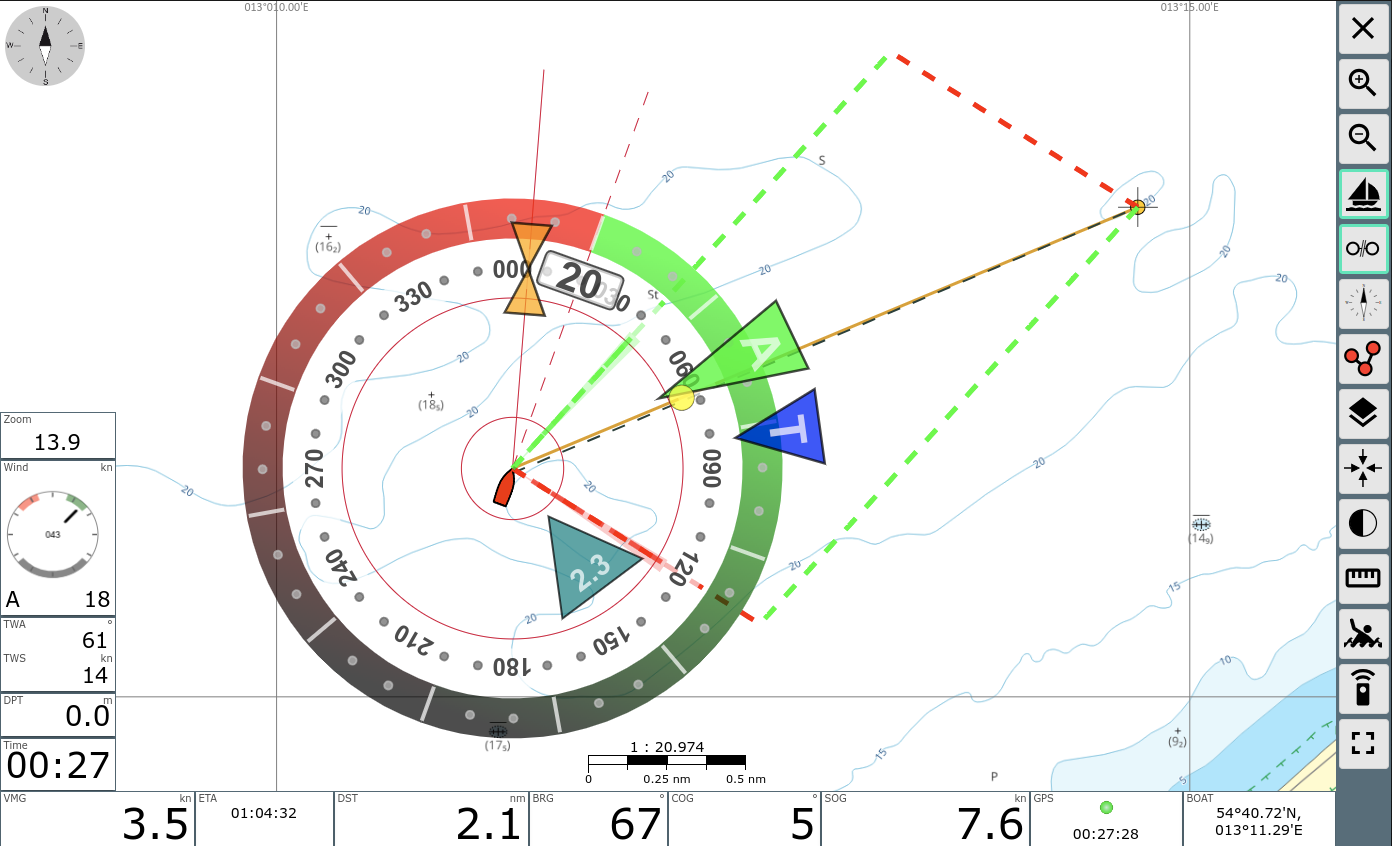
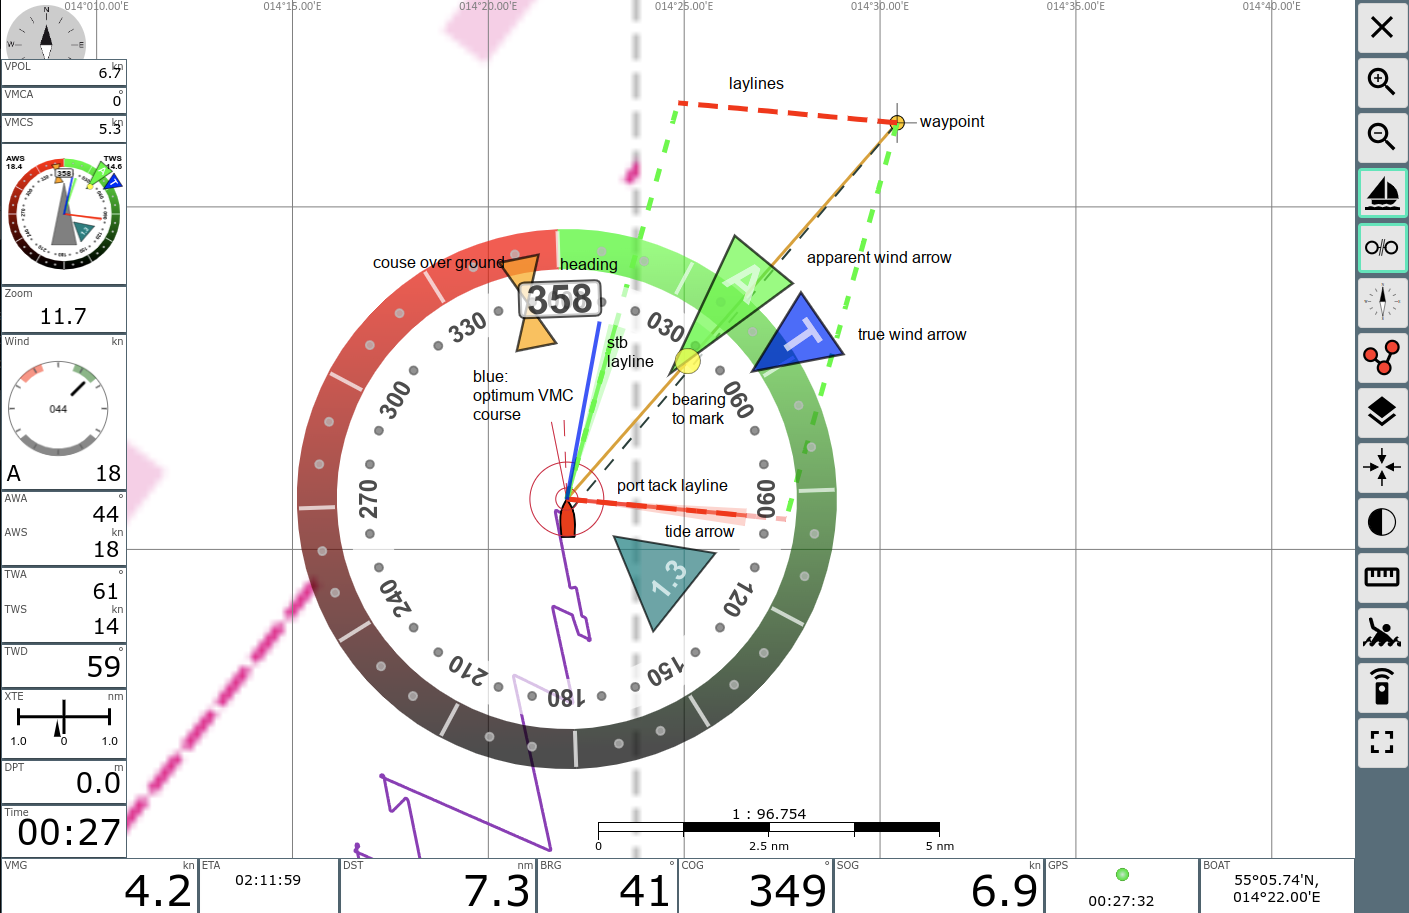
adjuseted readme

diff --git a/Sail_Instrument/plugin.js b/Sail_Instrument/plugin.js
@@ -147,7 +147,7 @@ var Sail_InstrumentWidget = {
         DFTF: 'nav.gps.sailinstrument.DFTF',
         minTWD: 'nav.gps.sailinstrument.TWDMIN',
         maxTWD: 'nav.gps.sailinstrument.TWDMAX',
-        VMCA: 'nav.gps.sailinstrument.VMCA',
+        VMCD: 'nav.gps.sailinstrument.VMCD',
     },
     initFunction: function() {},
     finalizeFunction: function() {},
@@ -259,7 +259,7 @@ let Sail_Instrument_Overlay = {
         DFTF: 'nav.gps.sailinstrument.DFTF',
         minTWD: 'nav.gps.sailinstrument.TWDMIN',
         maxTWD: 'nav.gps.sailinstrument.TWDMAX',
-        VMCA: 'nav.gps.sailinstrument.VMCA',
+        VMCD: 'nav.gps.sailinstrument.VMCD',
     },
     initFunction: function() {},
     finalizeFunction: function() {},
@@ -303,8 +303,8 @@ function drawWindWidget(ctx,size, maprotation, data){
           DrawLaylineArea(ctx, size, maprotation + data.LLSB, mm, green);
           DrawLaylineArea(ctx, size, maprotation + data.LLBB, mm, red);
         }
-        if (data.VMCA) {
-          DrawLaylineArea(ctx, size, maprotation + data.VMCA, [0,0], blue);
+        if (data.VMCD) {
+          DrawLaylineArea(ctx, size, maprotation + data.VMCD, [0,0], blue);
         }
         if (knots(data.AWSF)>=1) {
             DrawWindpfeilIcon(ctx, size, maprotation + data.AWDF, green, 'A');

diff --git a/Sail_Instrument/plugin.py b/Sail_Instrument/plugin.py
@@ -294,31 +294,38 @@ class Plugin(object):
             self.api.error(f"polar_speed {x}")
 
     def laylines(self, data):
-        twd, tws = data.TWDF, data.TWSF
-        if any(v is None for v in (twd, tws)):
-            return
-        twa = to180(twd - data.HDT)  # filtered TWA
-        upwind = abs(twa) < 90
-
-        tack_angle = float(self.getConfigValue(TACK_ANGLE))
-        gybe_angle = float(self.getConfigValue(GYBE_ANGLE))
-
-        if upwind and tack_angle or not upwind and gybe_angle:
-            angle = (tack_angle / 2) if upwind else (180 - gybe_angle / 2)
-            data.LLSB, data.LLBB = to360(twd - angle), to360(twd + angle)
-            return
-
-        if not self.polare:
-            return
         try:
+            twd, tws = data.TWDF, data.TWSF
+            if any(v is None for v in (twd, tws)):
+                return
+            twa = to180(twd - data.HDT)  # filtered TWA
+
+            brg = bearing_to_waypoint()
+            if brg:
+                upwind = abs(to180(brg - twd)) < 90
+            else:
+                upwind = abs(twa) < 90
+
+            tack_angle = float(self.getConfigValue(TACK_ANGLE))
+            gybe_angle = float(self.getConfigValue(GYBE_ANGLE))
+
+            if upwind and tack_angle or not upwind and gybe_angle:
+                angle = (tack_angle / 2) if upwind else (180 - gybe_angle / 2)
+                data.LLSB, data.LLBB = to360(twd - angle), to360(twd + angle)
+                return
+
+            if not self.polare:
+                return
+
             angle = self.polar_angle(tws, upwind)
             data.LLSB, data.LLBB = to360(twd - angle), to360(twd + angle)
             data.VPOL = self.polar_speed(twa, tws)
 
-            brg = bearing_to_waypoint()
-            if brg:
-                # BRG to WP relative to TWD
-                brgw = to180(brg - twd)
+            if not brg:
+                return
+
+            def optimum_vmc(twd, tws, brg):
+                brgw = to180(brg - twd)  # BRG from wind
 
                 def vmc(twa):
                     # unit vector to WP
@@ -326,7 +333,7 @@ class Plugin(object):
                     # boat speed vector from polar
                     b = toCart((twa, self.polar_speed(twa, tws)))
                     # project boat speed vector onto bearing to get VMC
-                    # negative sign, optimizer find minimum
+                    # negative sign, optimizer finds minimum
                     return -(e[0] * b[0] + e[1] * b[1])
 
                 # for a in range(0, 181, 10): self.api.log(f"{a} {vmc(a)*KNOTS}")
@@ -334,10 +341,12 @@ class Plugin(object):
                 res = scipy.optimize.minimize_scalar(vmc, bounds=(0, 180))
                 # self.api.log(f"{res}")
                 if res.success:
-                    data.VMCA = to360(copysign(res.x, brgw) + twd)
-                    data.VMCS = -res.fun
+                    return to360(twd + copysign(res.x, brgw)), -res.fun
+
+            data.VMCD, data.VMCS = optimum_vmc(twd, tws, brg)
+
         except Exception as x:
-            self.api.error(f"polar calculations {x}")
+            self.api.error(f"laylines {x}")
 
     def strictly_increasing(self, L):
         return all(x < y for x, y in zip(L, L[1:]))

diff --git a/Readme.md b/Readme.md
@@ -1,219 +1,73 @@
-# Sail_Instrument Plugin
+# SailInstrument AvNav-Plugin
 
 ![widget overlay](Images/avn1.png)
-![standalone widget](Images/widget.png)
 
-![attention](Images/Achtung.png)
-
-
-**This Plugin only works with an AVNAV-Versions including User-Overlays and new geodesy-library. (Release >20220819).** 
-Idea of this plugin is to show an Instrument, that contains all basic informations needed for sailing.
-With the possibility to show this Display directly on the map at the boatposition the sailor has all informations in view. The Laylines will inform you about the fastest bearing to a waypoint upwind and if displayed on the map you can follow these lines. (The advantage you can get using laylines is shown at the [end of this Readme](#usecase)).  
-The Instrument is inspired by B&Gs sailsteer.  
+The idea of this plugin is to display an instrument, that contains all basic information needed for sailing.
+The Instrument is inspired by B&G's sailsteer.  
+With the possibility to show the instrument directly on the map at the boat position the sailor has all information in view. The laylines will inform you about the course for optimal VMG upwind and if displayed on the map you can follow these lines. 
 
 Basically this plugin uses the [AvNav Plugin Interface](https://www.wellenvogel.net/software/avnav/docs/hints/plugins.html?lang=en).
 
-There is a good description of the basic functionality available at [blauwasser.de](https://www.blauwasser.de/navigation/app-sailsteer-bandg) und [mark-chisnell](https://www.bandg.com/de-de/blog/sailsteer-with-mark-chisnell/)
- 
- 
-**Remarks**:
-*  You have to provide polar data (see [Example](https://github.com/kdschmidt1/Sail_Instrument/blob/65a357926932284c8cf6eddd00fa86e13bc51392/polardaten/polare.xml)) of yor boat in the /home/pi/avnav/user/viewer folder for calculating the laylines. If there is no polar.xml file in the user folder, the plugin will copy its own file to this location and you can use it as a template for your own polar data and edit for example directly on the [Files/Download](https://www.wellenvogel.net/software/avnav/docs/userdoc/downloadpage.html) page in the section [DownloadPageUser](https://www.wellenvogel.net/software/avnav/docs/userdoc/downloadpage.html#userfiles).  
+There is a good description of what you can do with it at [blauwasser.de](https://www.blauwasser.de/navigation/app-sailsteer-bandg) and [mark-chisnell](https://www.bandg.com/de-de/blog/sailsteer-with-mark-chisnell/).
+
+
+
+
+The plugin calculates true wind, ground wind and set and drift. It needs COG/SOG, HDT/STW and AWA/AWS and input data. If HDT/STW is missing it uses COG/SOG as fallback (you get ground wind instead of true wind, and the direction is wrong if HDT!=COG). If you do not have a wind sensor, you can enter ground wind in the settings for testing purposes.
+
+The values calculated by the plugin are published in AvNav under `gps.sailinstrument.*`. The following values are computed
+
+| quantity | meaning                                      | 
+|----------|----------------------------------------------|
+| AWA      | apparent wind angle                          |
+| AWD      | apparent wind direction                      |
+| AWDF     | apparent wind direction, filtered (smoothed) |
+| AWS      | apparent wind speed                          |
+| AWSF     | apparent wind speed filtered                 |
+| COG      | course over ground                           |
+| DFT      | tide drift rate                              |
+| DFTF     | tide drift rate filtered                     |
+| GWA      | ground wind angle                            |
+| GWD      | ground wind direction                        |
+| GWS      | ground wind speed                            |
+| HDT      | true heading                                 |
+| LEE      | leeway angle (currently 0)                   |
+| LLBB     | port layline direction                       |
+| LLSB     | starboard layline direction                  |
+| SET      | tide set direction                           |
+| SETF     | tide set direction filtered                  |
+| SOG      | speed over ground                            |
+| STW      | speed through water                          |
+| TWA      | true wind angle                              |
+| TWD      | true wind direction                          |
+| TWDF     | true wind direction filtered                 |
+| TWDMAX   | max true wind direction relative to TWDF     |
+| TWDMIN   | min true wind direction relative to TWDF     |
+| TWS      | true wind speed                              |
+| TWSF     | true wind speed filtered                     |
+| VMCD     | optimum VMC direction (course)               |
+| VMCS     | optimum VMC speed                            |
+| VPOL     | speed from polar                             |
+
+Optionally you can enable that i.e. `gps.trueWindAngle` is written ot the AvNav data (requires `allowKeyOverwrite=true`). 
+
+## Installation
+
+Place the `Sail_Instrument` folder inside `avnav/data/plugins` or install the provided deb package from the releases.
+
+You have to provide polar data for your boat in `avnav/user/viewer` for calculating the laylines. If there is no `polar.xml` file in the user folder, the plugin will copy its own file to this location and you can use it as a template for your own polar data.
+If you do not have polar data, you can enter tack and gybe angle in the plugin configuration and use these fixed values instead.
   
-  
-A description how to prepare the polar.xml based on other formats will follow soon.  
+A source for polar data can be [Zeilersforum.nl](http://jieter.github.io/orc-data/site/index.html?#ITAEVERG)(thanks to [Segeln-Forum](https://www.segeln-forum.de/thread/61813-messbriefe-und-polardaten-online-nachschauen/)) or [Seapilot.com](https://www.seapilot.com/wp-content/uploads/2018/05/All_polar_files.zip)(thanks to [free-x](https://github.com/free-x)).
 
-A source for polar data can be [Zeilersforum.nl](http://jieter.github.io/orc-data/site/index.html?#ITAEVERG)(thanks to [Segeln-Forum](https://www.segeln-forum.de/thread/61813-messbriefe-und-polardaten-online-nachschauen/)) or
-[Seapilot.com](https://www.seapilot.com/wp-content/uploads/2018/05/All_polar_files.zip)(thanks to [free-x](https://github.com/free-x)).
-in this data you can find  
-beat angle => upwind,  
-run angle => downwind  
+In the polar data you find beat angle and run angle. These two vectors are needed for the calculation of the laylines.  
+The boat speed matrix is only used for calculation of VPOL and optimal VMC course.
 
-These two vectors are mandatory for calculation of the laylines.  
-The boatspeed Matrix is only used for calculation of VPOL (interpolated speed for actual condition based on polar-data)
+## Laylines
 
+To understand the technical background of the laylines one has first to have an understanding of the terms VMG & VMC.
+VMG (Velocity made good against wind) is defined as VMG = boatspeed * cos(TWA), so meaning the fastest course upwind.
+VMC (Velocity made good on course) is defined as VMC = boatspeed * cos(BRG-HDG), meaning the fastest course towards the waypoint.
+Unfortunately there is a lot of confusion on these two terms and also most of the commercial products are mixing the two items and indicate VMG but actually showing VMC (and so does AvNav). The calculation of laylines is based on the upwind and downwind vectors in your polar file, which contain the TWA for maximum VMG for a given TWS. As a result laylines show the optimum VMG angle, but not optimum VMC angle from TWD.  
 
-| Value | Format     | Storename | Description                        |
-|-------|------------|-----------|------------------------------------|
-| LLSB  | 0…360 [°]  | gps.LLSB  | layline angle Starboard            |
-| LLBB  | 0…360 [°]  | gps.LLBB  | layline angle Portside             |
-| VPOL  | 0..∞ [m/s] | gps.VPOL  | calculated polar speed             |
-| AWDF  | 0…360 [°]  | gps.AWDF  | PT1 filtered ApparentWindDirection |
-| TWDF  | 0…360 [°]  | gps.AWDF  | PT1 filtered TrueWindDirection     |
-
-
-**NEW:**  
-
-For the Instrument-Overlay you can configure
-
-[](Images/InstrumentOverlayconf.png "Beispielbild")
-
-| Name           | Default Value  | Description                               |
-|----------------|----------------|-------------------------------------------|
-| Widgetposition | Boatposition   | Position of the Instrument on the map     |
-| Displaysize    | 100            | Size of the Sail-Instrument (%)           |
-| Opacity        | 1.0            | Opacity of the Sail-Instrument on the map |
-
-If there is no boatposition available the Instrument will always be shown at the center position!
-
-                          
-                        
-For the Laylines-Overlay you can configure  
-[](LaylinesOverlay_conf.png "Beispielbild")  
-
-
-
-| Name           | Default Value | Description                                |
-|----------------|---------------|--------------------------------------------|
-| Opacity        | 1.0           | Opacity of the Laylines-Overlay on the map |
-| Laylinelength  | 100           | Length of Laylines (nm)                    |
-| Laylineoverlap | False         | Extent Laylines over Intersection          |
-| LaylineBoat    | True          | Draw Ahead-Laylines from Boatposition      |
-| LaylineWP      | True          | Draw Waypoint-Laylines                     |  
-
-
-
-The server-plugin itself has two parameter  
-[](Images/plugin_conf.png "Beispielbild")  
-
-
-| Name         | Default Value | Description                                                                |
-|--------------|---------------|----------------------------------------------------------------------------|
-| TWD_FiltFreq | 0.2           | Limit Frequency of the PT1 Lowpass-Filter                                  |  
-| Area-Minutes | 2             | Minutes considered for Layline-Areas [0..60] where 0 means no Laylineareas |  
-
-
-Please report any Errors to [Issues](https://github.com/kdschmidt1/Sail_Instrument/issues)
-
-License: [MIT](LICENSE.md)
-
-
-
-
-
-**Installation**
-
-------------
-
-You can use the plugin in 2 different ways.
-
-1. Download the Sail_Instrument code as a zip and unpack the Sail_Instrument-Folder into a directory /home/pi/avnav/data/plugins/Sail_Instrument.
-
- If the directory does not exist just create it. On an normal linux system (not raspberry pi) the directory will be /home/(user)/avnav/plugins/Sail_Instrument.
-
- In this case the internal name of the plugin will be user-Sail_Instrument. 
-
-
-2. Download the package provided in the releases section [Sail_Instrument](https://github.com/kdschmidt1/Sail_Instrument/releases) or build your own package using buildPackage.sh (requires a linux machine with docker installed). Install the package using the command
-
- ```
- sudo dpkg -i avnav-sailinstrument-plugin_xxxx.deb
-
- ```
-Add the Laylines to your map in the [WidgetDialog](https://www.wellenvogel.net/software/avnav/docs/hints/layouts.html#h2:WidgetDialog)
-
-Add the LayLines_Overlay to your map in the [WidgetDialog](https://www.wellenvogel.net/software/avnav/docs/hints/layouts.html#h2:WidgetDialog)  
-(you have to use the new Button ![Button](https://github.com/wellenvogel/avnav/blob/d5cf9802d507bd5c23e1b999b78dbe0c76252fa9/viewer/images/icons-new/assistant_nav.svg)).
-
-
-
-**User App**
-
---------
-
-The plugin registers no [User App](https://www.wellenvogel.net/software/avnav/docs/userdoc/addonconfigpage.html?lang=en#h1:ConfigurationofUserApps)
-
-
-
-**Configuration (Server)**
-
--------------
-
-No configuration necessary
-
-
-
-**Widgets**
-
-------
-
-The plugin provides the 
-- Sail_Instrument_Overlay,
-- LayLines_Overlay
-- Sail_InstrumentWidget (a widget with the Sail_Instrument)
-- Sail_InstrumentInfo-Widget (A Widget you can configure with Displaytype to show the distance [nm] or the time for each Layline (separate or with cum_.. for both Laylines together))  
-
-
-**Formatter**
-
----------
-
-
-No formatters are included in widget.
-
-
-
-
-**Implementation Details**
-
-----------------------
-
-The Plugin is checking the AvNav version. it will not run with versions older than 20220426. 
-The position of the Laylines in the display depends on the filtered TWD, that one 
-can see by activating the TWDFilt_Indicator.  
-Laylines on the map are only shown, if a waypoint is active and the course to the WP is in between the Laylines!
-
-For best viewing i propose to set the Update Time for the Position to the minimum (500ms) in the [Settings page](https://www.wellenvogel.net/software/avnav/docs/userdoc/settingspage.html) 
-and on the [Nav page](https://www.wellenvogel.net/software/avnav/docs/userdoc/navpage.html) to activate LockPos and CourseUp.
-
-**Package Building**
-
-----------------
-
-For a simple package building [NFPM](https://nfpm.goreleaser.com/) is used and started in a docker container (use [buildPkg.sh](buildPkg.sh)). In the [package.yaml](package.yaml) the properties of the packge can be set.
-
-Additionally a [GitHub workflow](.github/workflows/createPackage.yml) has been set up to create a release and build a package whenever you push to the release branch.
-
-So when you fork this repository you can create a package even without a local environment.
-To trigger a package build at GitHub after forking just create a release branch and push this.
-
-**<a name="usecase"></a>Technical implementation and Use-Case**
-
-----------------
-!! This is not for the old seadogs, this is for technical interested hobby-sailors  !!
-
-To understand the technical background of the Laylines one has first to have a understanding of the terms VMG & VMC.
-VMG (Velocity made good against wind) is defined as VMG = Boatspeed * COS(TWA), so meaning the fastest course to a waypoint directly in wind direction.
-VMC (Velocity made good on course) is defined as VMC = Boatspeed * COS(BRG-HDG), meaning the fastest course to your waypoint.
-Unfortunately there is a lot of confusion on these two terms, and also most of the commercial products are mixing the two items and indicate VMG but showing in reality VMC (and so does also AvNav as one can see in the source code (navcompute.js line 210: let vmgapp = gps.speed * Math.cos(Math.PI / 180 * coursediff), with cousediff= BRG-HDG ).
-So have in mind, that VMG in AvNav means in reality VMC!
-The calculation of Laylines is based on the Upwind and Downwind vectors in your polar file, which are indicating the maximum VMG (and in this case really VMG!) for a given true windspeed.
-As a result Laylines are an optimum VMG angle, NOT VMC ANGLE!(see Best VMC below).  
-Examples for all three strategies in the following:  
-Based on a true wind direction of 0° (directly from North) and a Waypoint in 10 nm distance with a bearing of 32° you will get:
-
-**Following the direct course**  
-
-Your speed (acc. Polar-data) will be 3.8 knots. For the 10 nm to the waypoint you would need 10nm/3.8kts ~ 2.63hrs.
-(The indication of the LaylineInfo Panels is useless in this moment, because they take into account your actual speed, and the distance to the waypoint would be 9.7 + 1.9 nm --> 11.6 nm)
-![direct course](https://github.com/kdschmidt1/Sail_Instrument/blob/9f54c7d21a16f81bd08985cf77718e07762b62a3/Images/directCourse.png)
-
-**Following the Laylines**  
-
-But, if you change course to the Layline your speed (acc. Polar-data) will increase to 4.9 knots. You have to travel 9,7 nm on starboard and 1.9 nm on port (with the same speed), so you would need 11.6nm/4.9kts ~ 2.37 hrs, an advantage of approx. 15 minutes (not taking into account the additional time for the turn maneuver).  
-
-![Follow Laylines](https://github.com/kdschmidt1/Sail_Instrument/blob/9f54c7d21a16f81bd08985cf77718e07762b62a3/Images/followLL.png)
-
-**Best VMC**  
-
-As mentioned before, the layline calculation is based on VMG, not VMC. So best VMC with this strategy is only valid, if your Waypoint is directly against the true wind direction. One can calculate also a best VMC course, which in this case would be 63 degrees as shown in the picture with an actual speed (acc. Polar-data) of 5.9 knots resulting in an VMC (or, as indicated as VMG in AvNav) of 5.0 knots. This calculation is actually not integrated in the release, because aditional libraries are necessary, that are currently not available for the rasperry pi (Introduction under preparation).  
-![Best VMC](https://github.com/kdschmidt1/Sail_Instrument/blob/9f54c7d21a16f81bd08985cf77718e07762b62a3/Images/bestVMC.png)  
-
-But take into account, that following the Laylines is the easier way, because the course will not change along the Layline as long as the true wind direction is not changing (remember VMG = Boatspeed * COS(TWA) ) while following the best VMC is resulting in course changes along your way (remember VMC = Boatspeed * COS(BRG-HDG), and BRG is changing along yor way!!). 
-I will come up with a simulation video of all three strategies to show the behavior soon.
-
-**
-Please have in mind, that all these strategies are only valid in real life, if:
-- the calculation of true wind data is accurate (Impact of SOG, Apparent wind angle and speed)
-- your polar data is valid and you are able to reach the polar performance (or, at least, a constant percentage of it, because even Boris Hermann is rarely reaching 100%)
-**
-
+This plugin also calculates the optimum VMC course from the polar data and displays it as a blue line along with the laylines.
